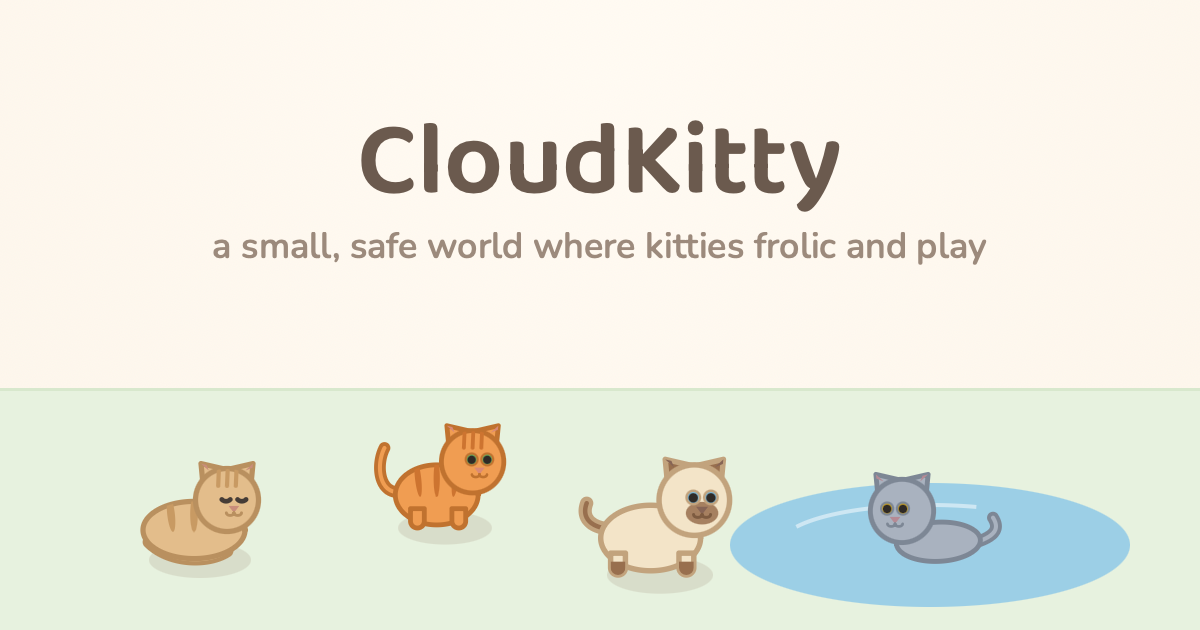
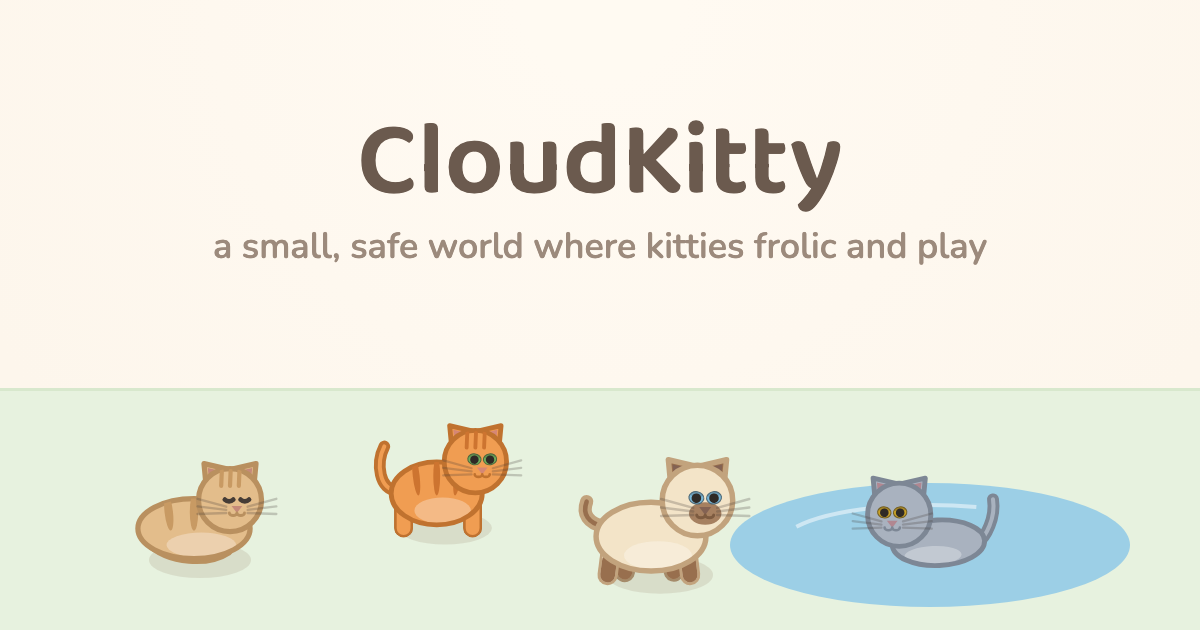
the social card is redrawn: the same four kitties, in the art they wear now
og-image.png was generated 2026-08-02 and never regenerated, so every
link preview since has advertised a cat from before whiskers, the
muzzle, the belly, the fur-showing inner ear, and four pivoted legs.

og-card.html draws through the real v2 vocabulary, so nothing in the
generator needed editing -- the card was only ever stale because nobody
re-ran it. Composition, cast, copy and Biscuit's fully-closed eyes are
untouched.

Rendered by driving the shipped generator itself in headless Chrome and
taking the bytes its own download button would produce (canvas.toBlob),
rather than re-implementing the scene -- byte-identical across three
independent runs. Verified by rendering the card from its 885ce6b-era
client tree first: that reproduction differs from the shipped PNG only
in antialiasing hairlines (1.7% of pixels, edges only, no shape moved),
so every difference in the new card is real art and not the pipeline.
No ink reaches a canvas edge and no two residents collide.

Claude-Session: https://claude.ai/code/session_01DtFsqaveGLr6sqkQXxaXju

diff --git a/CHANGELOG.md b/CHANGELOG.md
@@ -33,6 +33,18 @@ change.
 
 ## Unreleased
 
+- **The social card was advertising a cat that no longer exists.** The
+  OG image was drawn on 2026-08-02 and never redrawn, so every link
+  preview since — Slack, iMessage, Twitter, LinkedIn — has shown kitties
+  from before whiskers, before the muzzle, before the belly, before the
+  inner ear became fur-showing, and before a standing cat had four
+  pivoted legs rather than two stubs. `og-card.html` draws its scene
+  through the real v2 vocabulary, so this is a regenerate and not an
+  edit: the same four residents, the same composition, the same copy, in
+  the art they actually wear. Biscuit's eyes still close all the way
+  (owner, 2026-08-02) and the `og:image:alt` sentence still describes
+  the picture. Presentation only. (#PR)
+
 - **HttpBehavior: a remote endpoint can be a kitty's advisor.** The
   second speaker of the spec-016 plugin contract, deferred from that
   sitting: a `[plugins.<name>]` entry may declare `url` instead of
